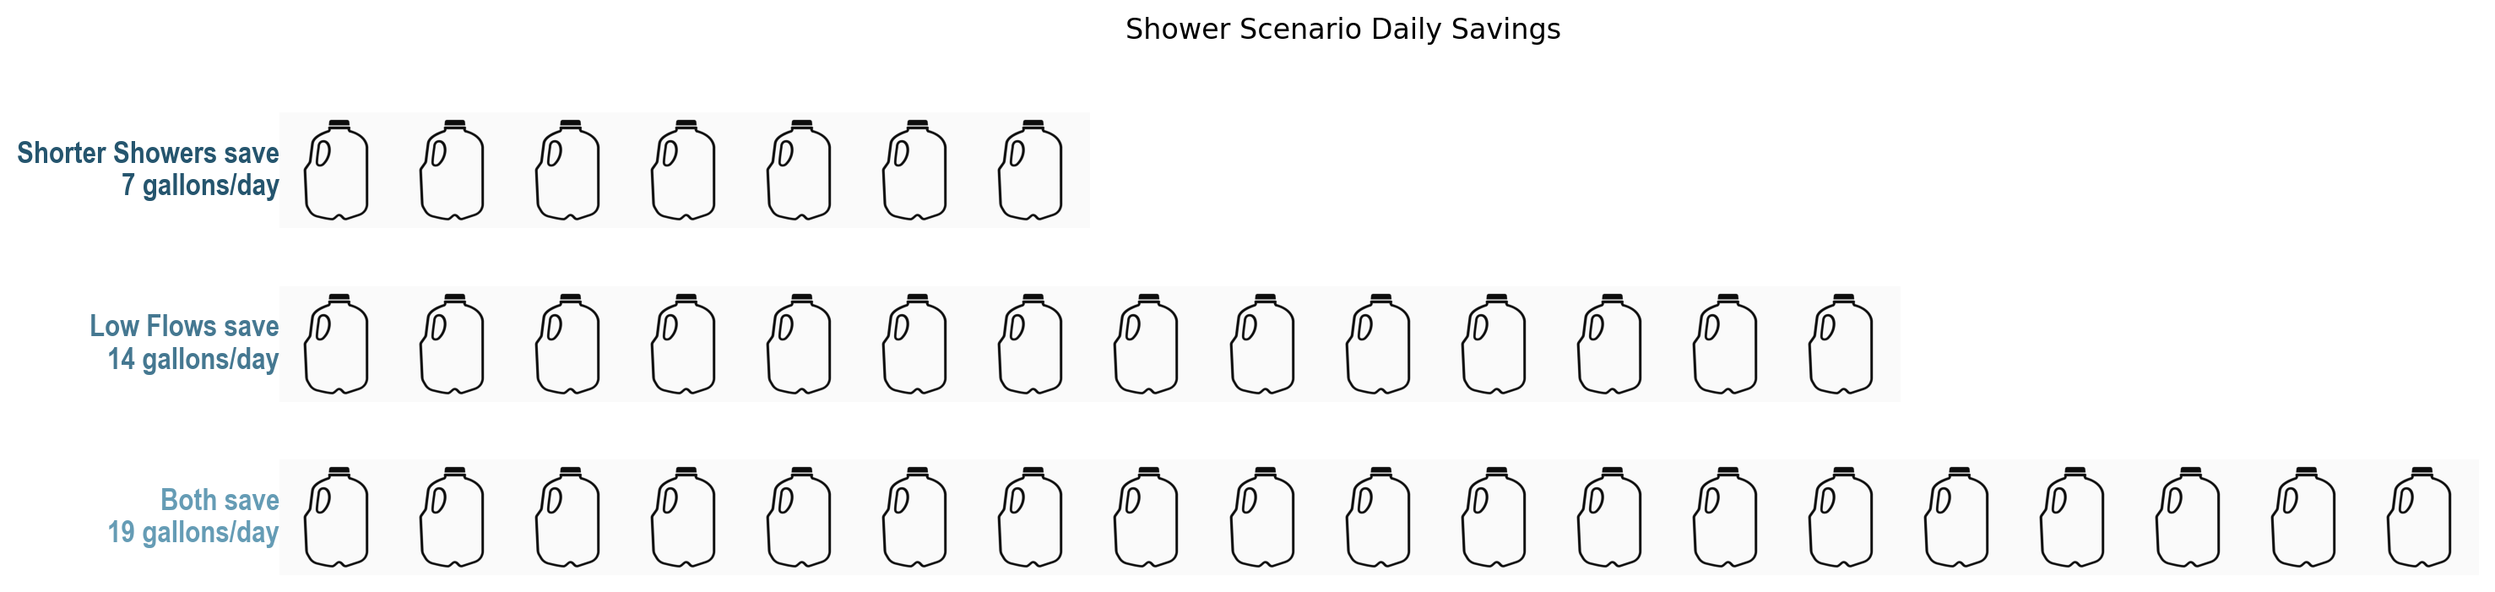
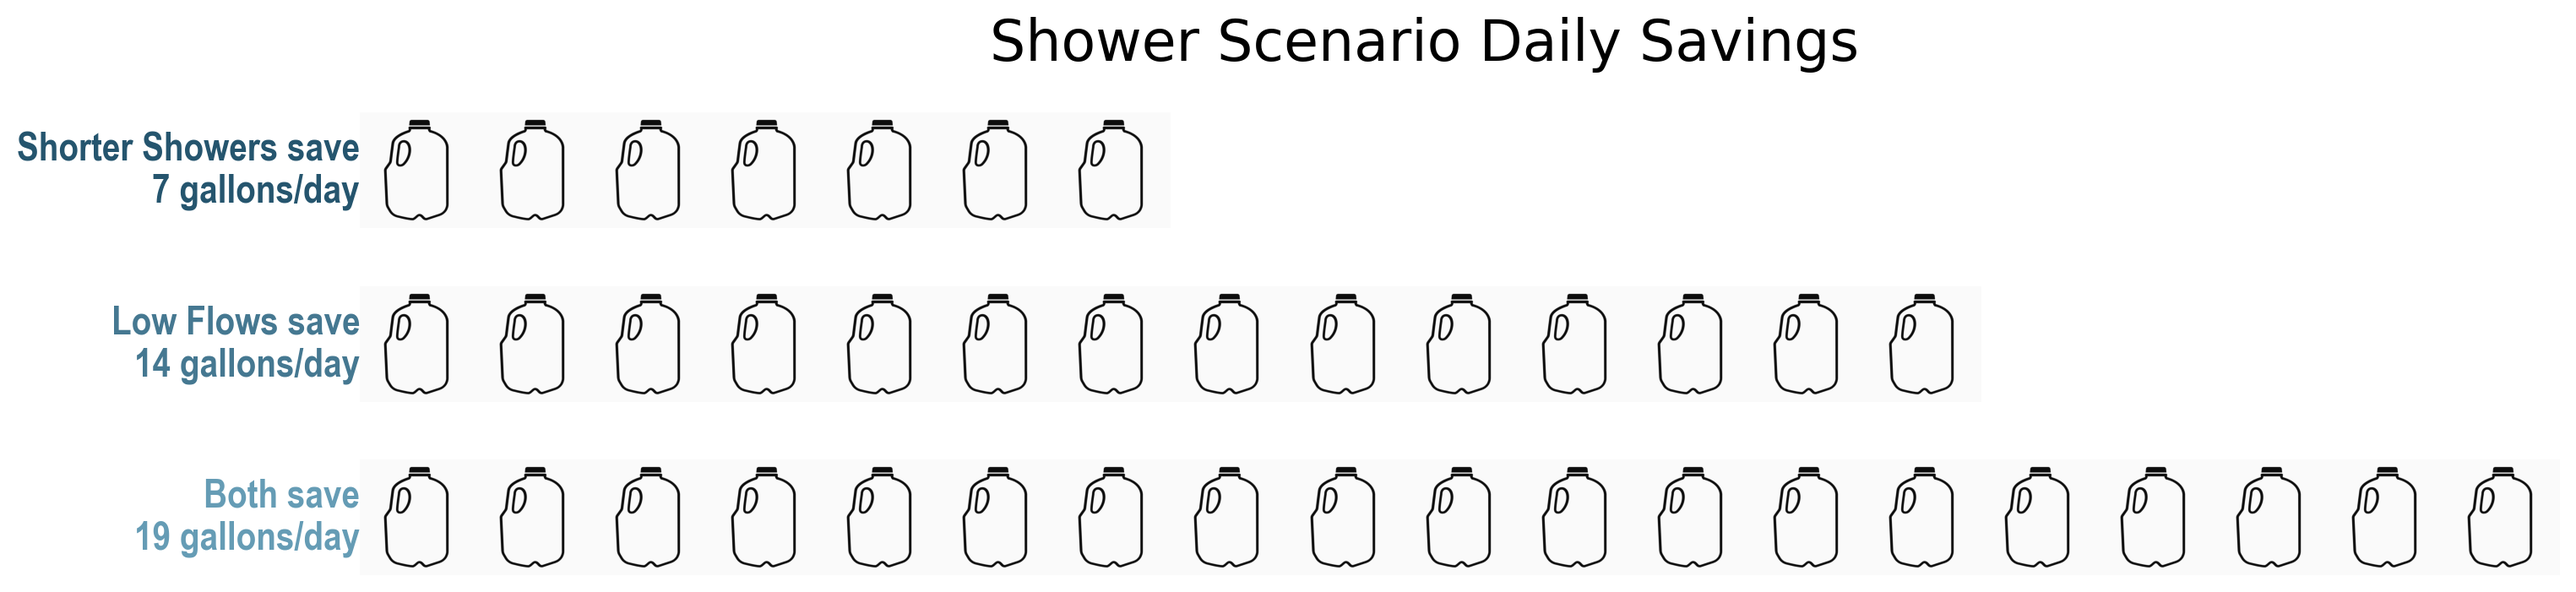
minor changes

diff --git a/IndoorWaterUse.py b/IndoorWaterUse.py
@@ -267,7 +267,7 @@ ncol = max(savings)
 nrow = len(savings)
 
 # create plot
-fig6, ax = plt.subplots(nrows=rows, ncols=ncol, figsize=(ncol+1, nrow+1))
+fig6, ax = plt.subplots(nrows=rows, ncols=ncol, figsize=(ncol, nrow+1))
 # reduce spacing
 fig6.subplots_adjust(hspace=0.00, wspace=0.00)
 gs = gridspec.GridSpec(nrow, ncol,
@@ -292,7 +292,7 @@ ax[1][0].annotate(text[1], xy=(0, 275), xytext=(0, 275), annotation_clip=False, 
 ax[2][0].annotate(text[2], xy=(0, 275), xytext=(0, 275), annotation_clip=False, rotation=0,
             fontsize=17, ha='right', va='center', fontname='Arial Narrow', color=colors[2], fontweight='bold',
             horizontalalignment='right', verticalalignment='top')
-fig6.suptitle('Shower Scenario Daily Savings')
+fig6.suptitle('Shower Scenario Daily Savings', fontsize=24)
 plt.show()
 
 # to save
